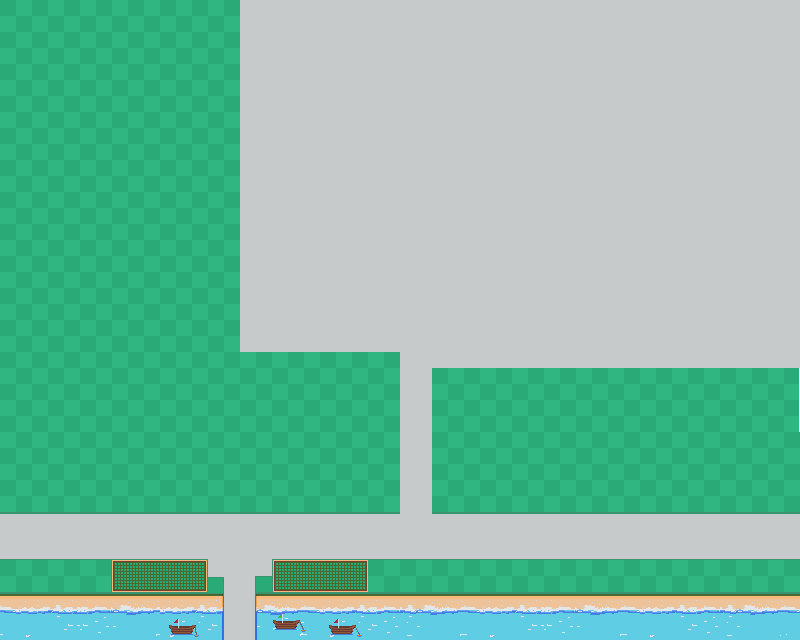
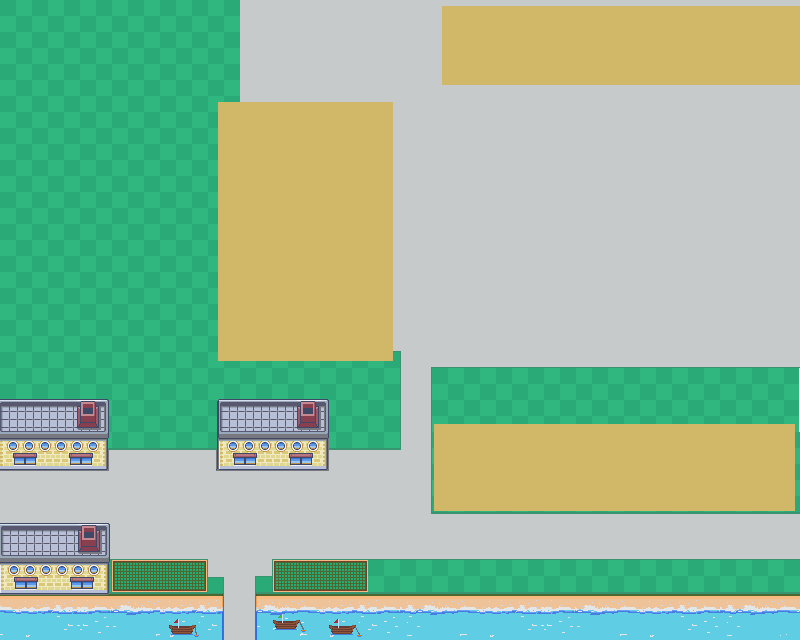
more

diff --git a/OverworldMap.js b/OverworldMap.js
@@ -53,7 +53,7 @@ class OverworldMap {
 
 window.OverworldMaps = {
   DemoRoom: {
-    lowerSrc: "/PIOM/MAPS/biggerandbetter2.png",
+    lowerSrc: "/PIOM/MAPS/bigBoy.png",
     upperSrc: "",
 
     gameObjects: {
@@ -65,9 +65,15 @@ window.OverworldMaps = {
       }),
 
       npc1: new Person({
-        x: utils.withGrid(6),
-        y: utils.withGrid(37),
+        x: utils.withGrid(15),
+        y: utils.withGrid(34),
         src: "/PIOM/CHARS/rachel.png",
+      }),
+
+      fisherman: new Person({
+        x: utils.withGrid(22),
+        y: utils.withGrid(38),
+        src: "/PIOM/CHARS/fisherman.png",
       }),
 
       redBoat: new Person({
@@ -130,7 +136,63 @@ window.OverworldMaps = {
       [utils.asGridCoord(47, 37)]: true,
       [utils.asGridCoord(48, 37)]: true,
       [utils.asGridCoord(49, 37)]: true,
-      //  sea and bridge
+      //  ^ sea and bridge
+      [utils.asGridCoord(6, 36)]: true,
+      [utils.asGridCoord(6, 35)]: true,
+      [utils.asGridCoord(6, 34)]: true,
+      [utils.asGridCoord(6, 33)]: true,
+      [utils.asGridCoord(5, 33)]: true,
+      [utils.asGridCoord(4, 33)]: true,
+      [utils.asGridCoord(3, 33)]: true,
+      [utils.asGridCoord(2, 33)]: true,
+      [utils.asGridCoord(1, 33)]: true,
+      [utils.asGridCoord(0, 33)]: true,
+      [utils.asGridCoord(0, 34)]: true,
+      [utils.asGridCoord(0, 35)]: true,
+      [utils.asGridCoord(0, 36)]: true,
+      // ^ martyr's bay building
+      [utils.asGridCoord(6, 28)]: true,
+      [utils.asGridCoord(6, 27)]: true,
+      [utils.asGridCoord(6, 26)]: true,
+      [utils.asGridCoord(6, 25)]: true,
+      [utils.asGridCoord(5, 25)]: true,
+      [utils.asGridCoord(4, 25)]: true,
+      [utils.asGridCoord(3, 25)]: true,
+      [utils.asGridCoord(2, 25)]: true,
+      [utils.asGridCoord(1, 25)]: true,
+      [utils.asGridCoord(0, 25)]: true,
+      [utils.asGridCoord(0, 26)]: true,
+      [utils.asGridCoord(0, 27)]: true,
+      [utils.asGridCoord(0, 28)]: true,
+      [utils.asGridCoord(1, 28)]: true,
+      [utils.asGridCoord(2, 28)]: true,
+      [utils.asGridCoord(3, 28)]: true,
+      [utils.asGridCoord(4, 28)]: true,
+      [utils.asGridCoord(5, 28)]: true,
+      // ^ sound of iona shop
+      [utils.asGridCoord(14, 28)]: true,
+      [utils.asGridCoord(15, 28)]: true,
+      [utils.asGridCoord(16, 28)]: true,
+
+      [utils.asGridCoord(18, 28)]: true,
+      [utils.asGridCoord(19, 28)]: true,
+      [utils.asGridCoord(20, 28)]: true,
+      [utils.asGridCoord(20, 27)]: true,
+      [utils.asGridCoord(20, 26)]: true,
+      [utils.asGridCoord(20, 25)]: true,
+      [utils.asGridCoord(19, 25)]: true,
+      [utils.asGridCoord(18, 25)]: true,
+      [utils.asGridCoord(17, 25)]: true,
+      [utils.asGridCoord(16, 25)]: true,
+      [utils.asGridCoord(15, 25)]: true,
+      [utils.asGridCoord(14, 25)]: true,
+      [utils.asGridCoord(14, 28)]: true,
+      [utils.asGridCoord(14, 27)]: true,
+      [utils.asGridCoord(14, 26)]: true,
+      [utils.asGridCoord(14, 25)]: true,
+      [utils.asGridCoord(17, 27)]: true,
+      [utils.asGridCoord(17, 26)]: true,
+      // ^ building in front of jetty
     },
   },
 };
